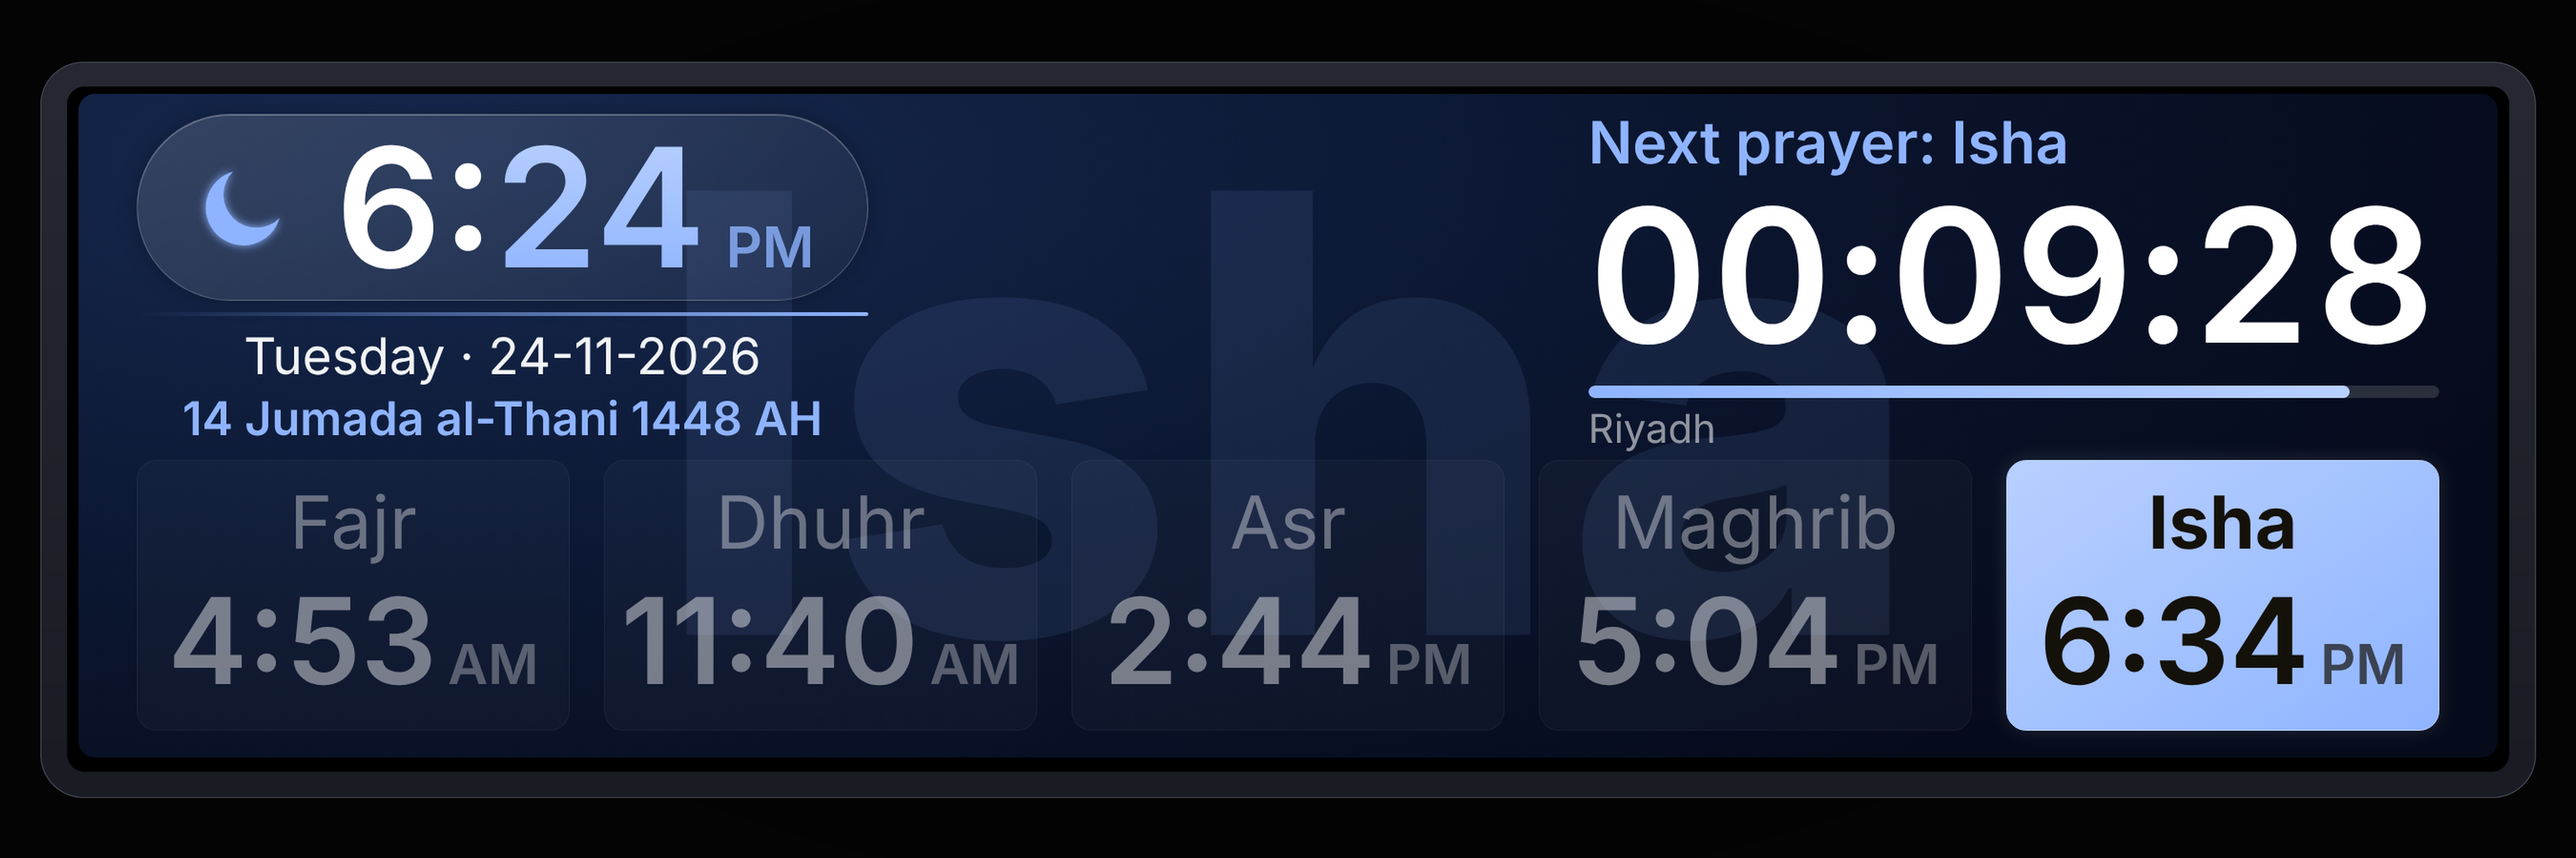
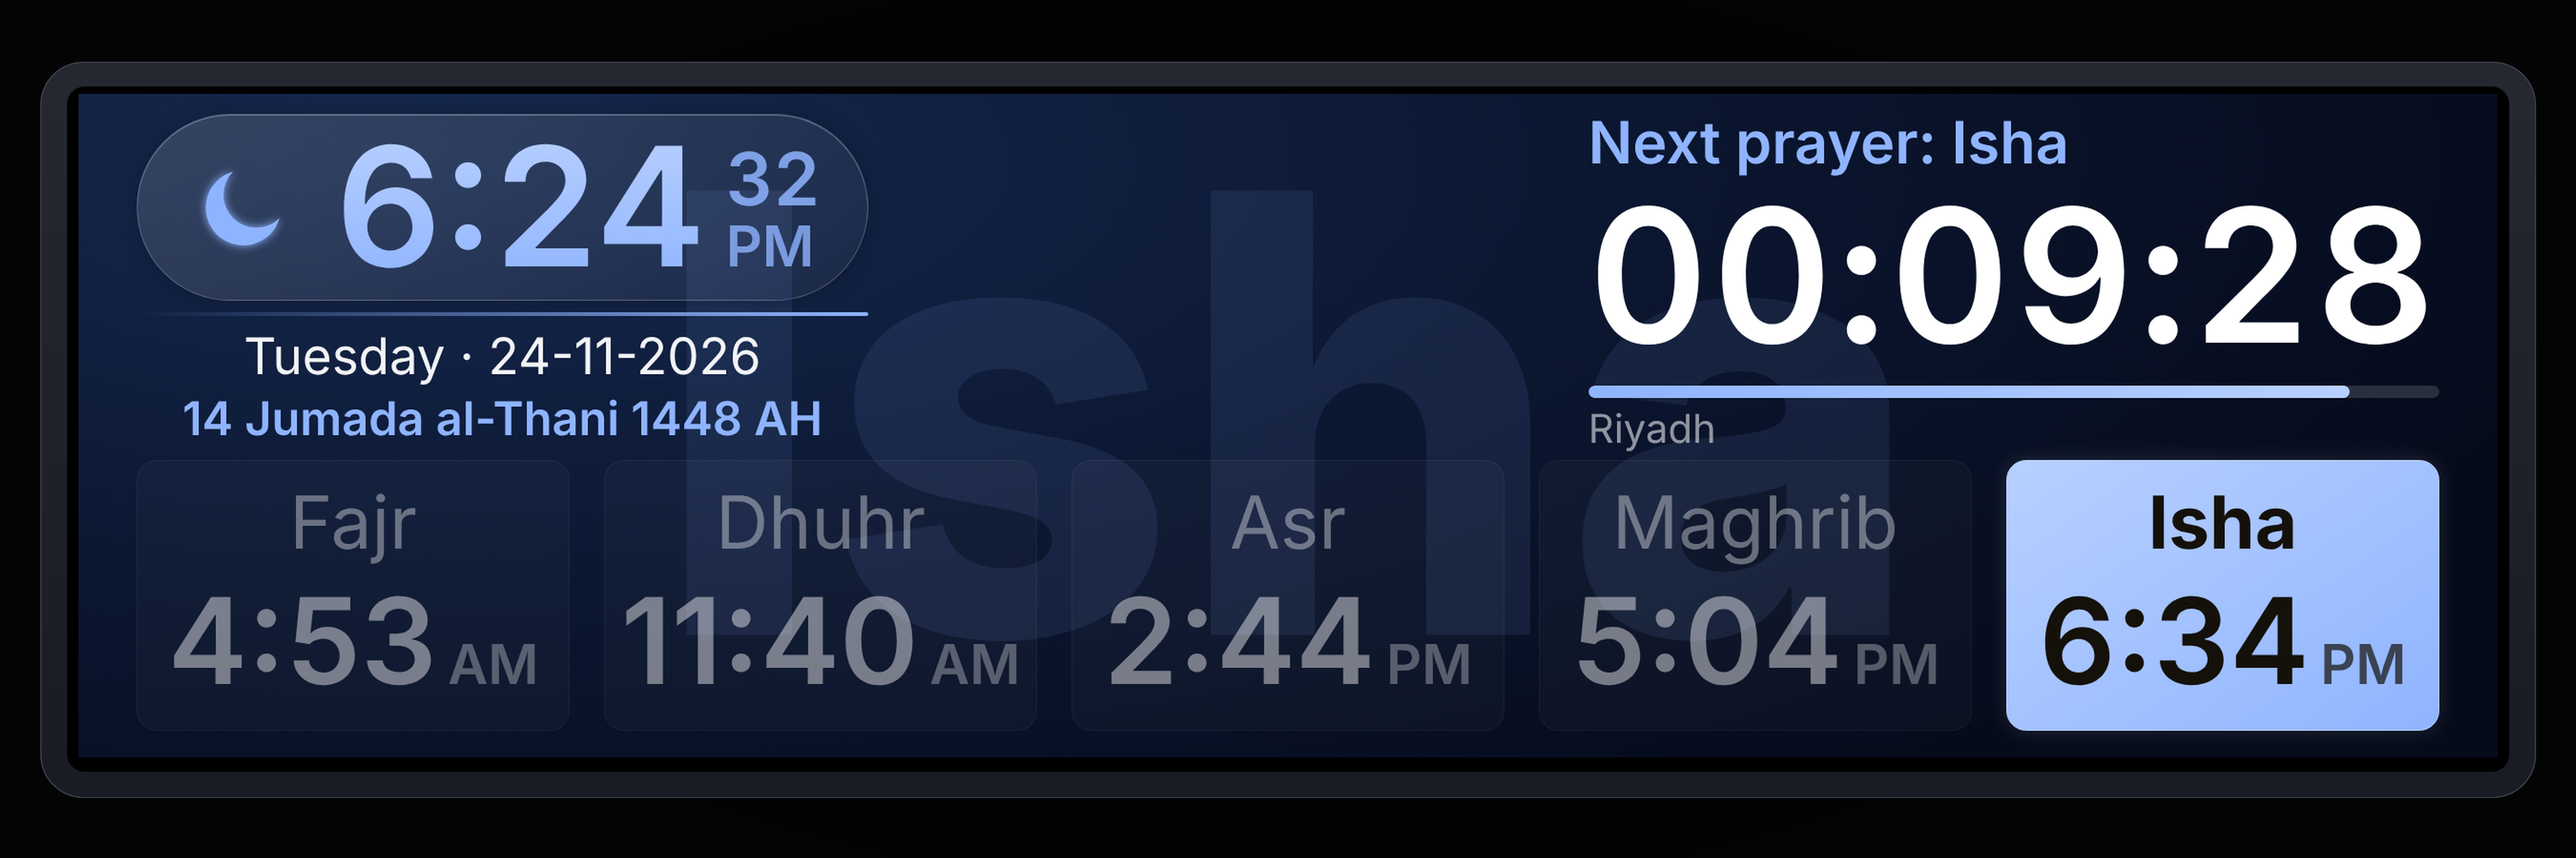
Center the clock in its pill and show small seconds above AM/PM

Changed region(s): [[0.125, 0.1562, 0.1875, 0.3125], [0.2812, 0.1562, 0.3125, 0.25]]

diff --git a/src/scripts/main.js b/src/scripts/main.js
@@ -1208,8 +1208,10 @@ function tick() {
   var mm = pad(now.getMinutes()), hh, ap = '';
   if (cfg.fmt === '24') { hh = pad(h); }
   else { hh = String(h % 12 === 0 ? 12 : h % 12); ap = '<small>' + (h >= 12 ? L.pm : L.am) + '</small>'; }
-  var clockHtml = '<span>' + hh + ':</span><span class="m">' + mm + '</span>' + ap;
+  var clockHtml = '<span class="m">' + hh + ':</span><span class="m">' + mm + '</span><span class="ap' + (ap ? '' : ' solo') + '"><i class="sec" id="sec"></i>' + ap + '</span>';
   if (nowEl.getAttribute('data-sig') !== clockHtml) { nowEl.innerHTML = clockHtml; nowEl.setAttribute('data-sig', clockHtml); }
+  var secEl = document.getElementById('sec');
+  if (secEl) secEl.textContent = pad(now.getSeconds());
   var icEl = document.getElementById('ic');
   var dayFlag = isDay(now);
   if (icEl.getAttribute('data-d') !== (dayFlag ? '1' : '0')) { icEl.innerHTML = dayFlag ? SUN_SVG : MOON_SVG; icEl.setAttribute('data-d', dayFlag ? '1' : '0'); }
@@ -1297,10 +1299,34 @@ function tick() {
   if (cells.getAttribute('data-sig') !== html) { cells.innerHTML = html; cells.setAttribute('data-sig', html); }
 }
 
+
+// Center the clock digits vertically inside the pill. Fonts such as Bahnschrift keep
+// extra space below the digits, so the digits look raised; measure the real ink box
+// of the digits and shift the text by the difference (in em).
+function centerClock() {
+  try {
+    var el = document.getElementById('now');
+    if (!el) return;
+    var fam = getComputedStyle(el).fontFamily;
+    var ctx = document.createElement('canvas').getContext('2d');
+    ctx.font = '600 100px ' + fam;
+    var m = ctx.measureText('0123456789');
+    var fa = m.fontBoundingBoxAscent, fd = m.fontBoundingBoxDescent;
+    var ia = m.actualBoundingBoxAscent, id = m.actualBoundingBoxDescent;
+    if (!(fa > 0) || !(ia > 0)) return;
+    var base = (100 - (fa + fd)) / 2 + fa;
+    var inkCenter = base - (ia - id) / 2;
+    var shift = (50 - inkCenter) / 100;
+    if (shift > 0.3 || shift < -0.3) shift = 0;
+    el.style.setProperty('--ns', shift.toFixed(4));
+  } catch (e) {}
+}
+
 var lastLoc = '';
 function init() {
   readCfg();
   inited = true;
+  centerClock();
   var loc = cfgSig();
   if (loc !== lastLoc || !ready) {
     lastLoc = loc;
@@ -1314,6 +1340,7 @@ function init() {
 
 function safeTick() { try { tick(); } catch (e) {} }
 
+try { if (document.fonts && document.fonts.ready) { document.fonts.ready.then(centerClock); } } catch (e) {}
 icueEvents = { onICUEInitialized: init, onDataUpdated: init };
 if (typeof iCUE_initialized !== 'undefined' && iCUE_initialized) { init(); }
 function loop() {

diff --git a/src/styles/main.css b/src/styles/main.css
@@ -13,9 +13,14 @@ body { font-family: "Segoe UI", Tahoma, sans-serif; }
   background: linear-gradient(145deg, rgba(255,255,255,.14), rgba(255,255,255,.04)); border: 1px solid rgba(255,255,255,.22);
   box-shadow: inset 0 1px 0 rgba(255,255,255,.25), 0 0 3cqh rgba(0,0,0,.25); }
 .ic { display: flex; font-size: min(16cqh, 5.4cqw); color: var(--acc); filter: drop-shadow(0 0 5px var(--acc)); }
-.now { font-family: Bahnschrift, "Segoe UI", sans-serif; font-weight: 600; line-height: 1; font-size: min(25cqh, 8.6cqw); direction: ltr; white-space: nowrap; display: flex; align-items: baseline; }
+.now { position: relative; top: calc(var(--ns, 0) * 1em); font-family: Bahnschrift, "Segoe UI", sans-serif; font-weight: 600; line-height: 1; font-size: min(25cqh, 8.6cqw); direction: ltr; white-space: nowrap; display: flex; align-items: baseline; }
 .now .m { background: linear-gradient(180deg, var(--acc2), var(--acc)); -webkit-background-clip: text; background-clip: text; color: transparent; }
 .now small { font-family: "Segoe UI", sans-serif; font-size: .34em; margin-inline-start: .35em; opacity: .8; color: var(--acc); }
+.now .ap { display: inline-block; position: relative; font-family: "Segoe UI", sans-serif; font-size: .34em; line-height: 1; margin-inline-start: .35em; color: var(--acc); }
+.now .ap small { font-size: 1em; margin: 0; }
+.now .sec { position: absolute; left: 0; bottom: 100%; margin-bottom: .02em; font-style: normal; font-family: Bahnschrift, "Segoe UI", sans-serif; font-weight: 600; font-size: 1.3em; line-height: 1; opacity: .85; font-variant-numeric: tabular-nums; }
+.now .ap.solo { align-self: baseline; }
+.now .ap.solo .sec { position: static; margin: 0; }
 .ln { width: 100%; height: .5cqh; min-height: 2px; margin: 1.8cqh 0 1.4cqh; border-radius: 9px; background: linear-gradient(270deg, var(--acc), transparent); }
 .date { max-width: 100%; white-space: nowrap; text-align: center; }
 .date .d1 { font-size: min(7.6cqh, 2.9cqw); opacity: .95; }
